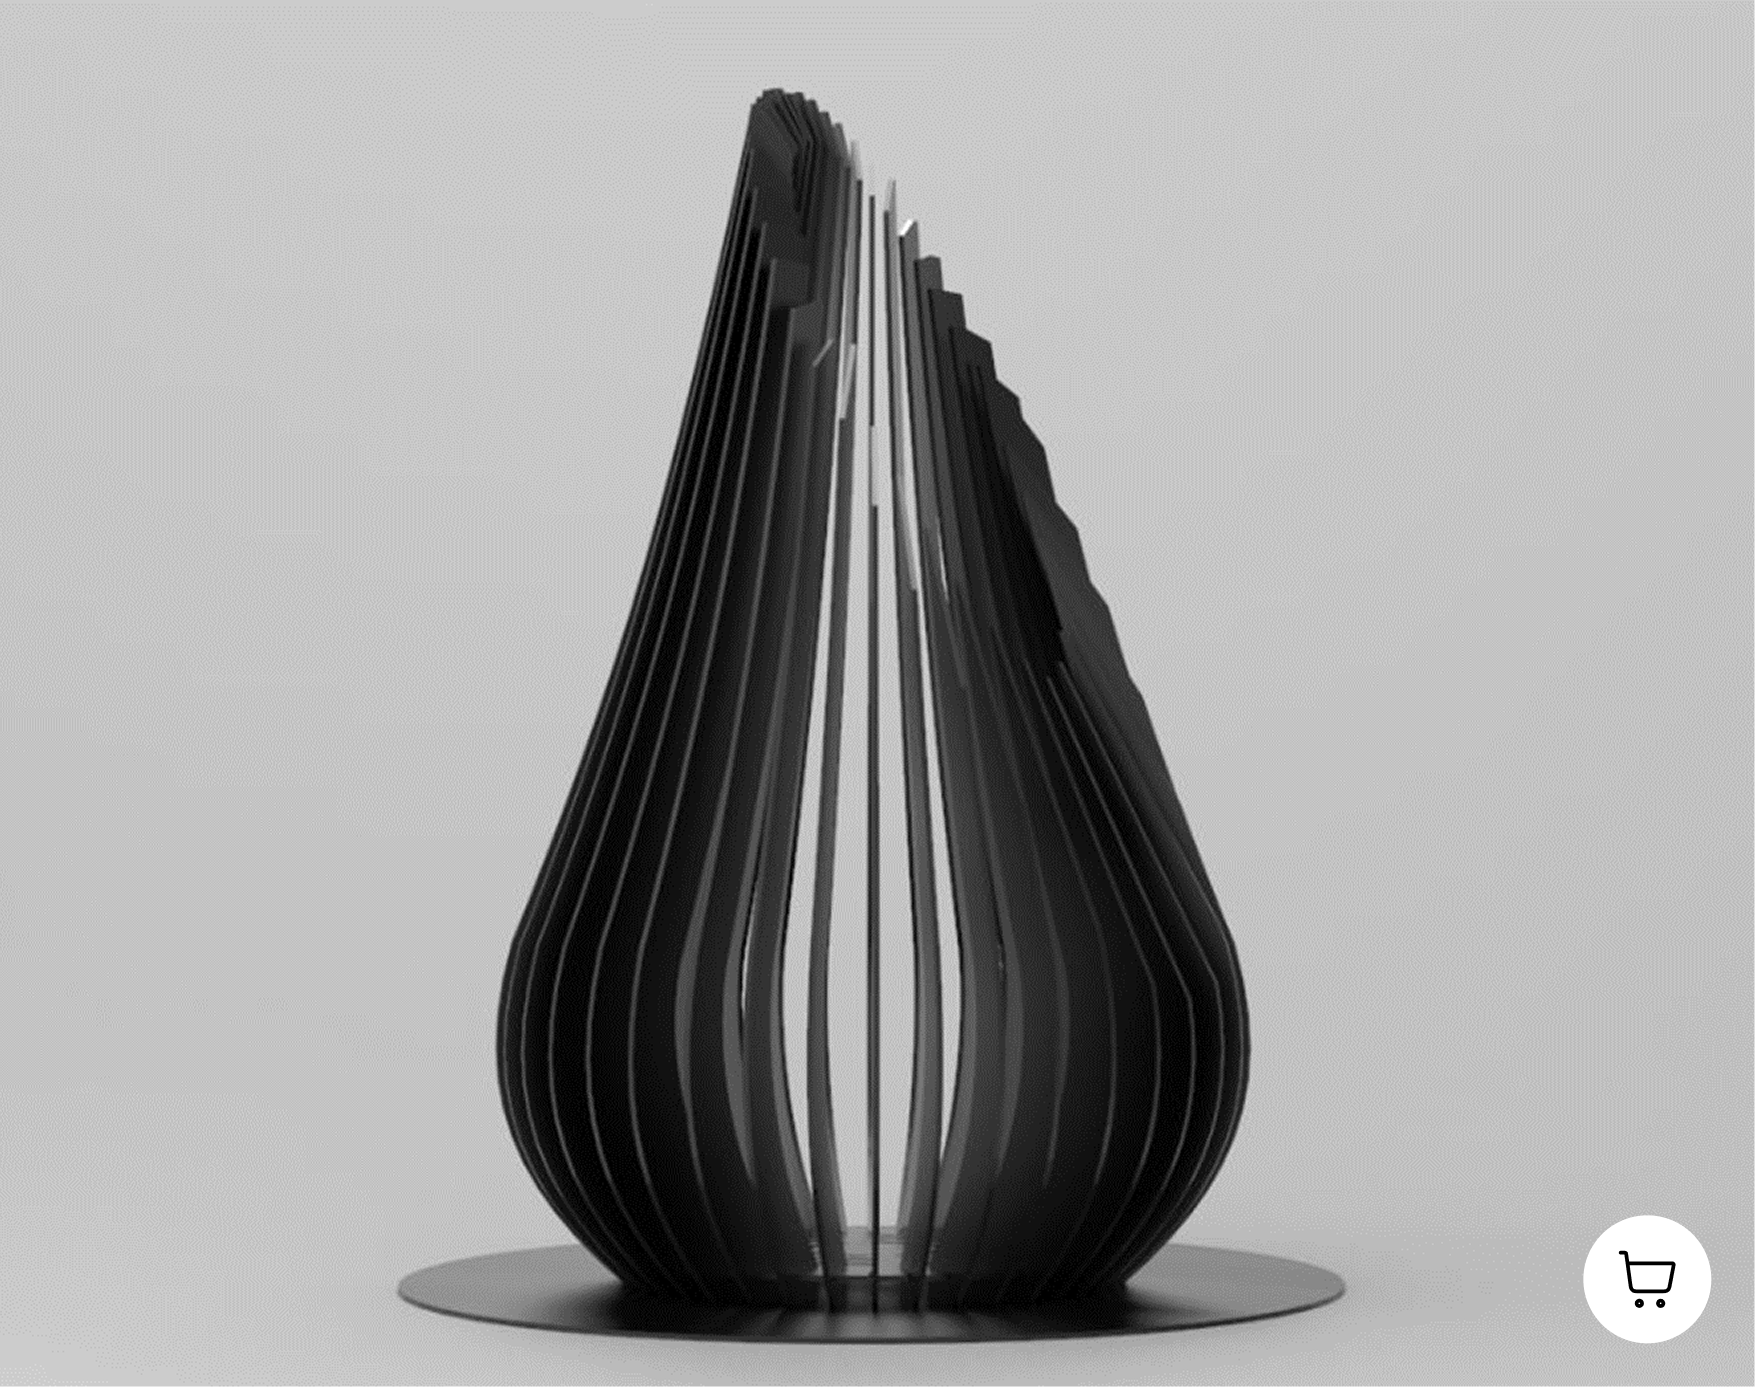
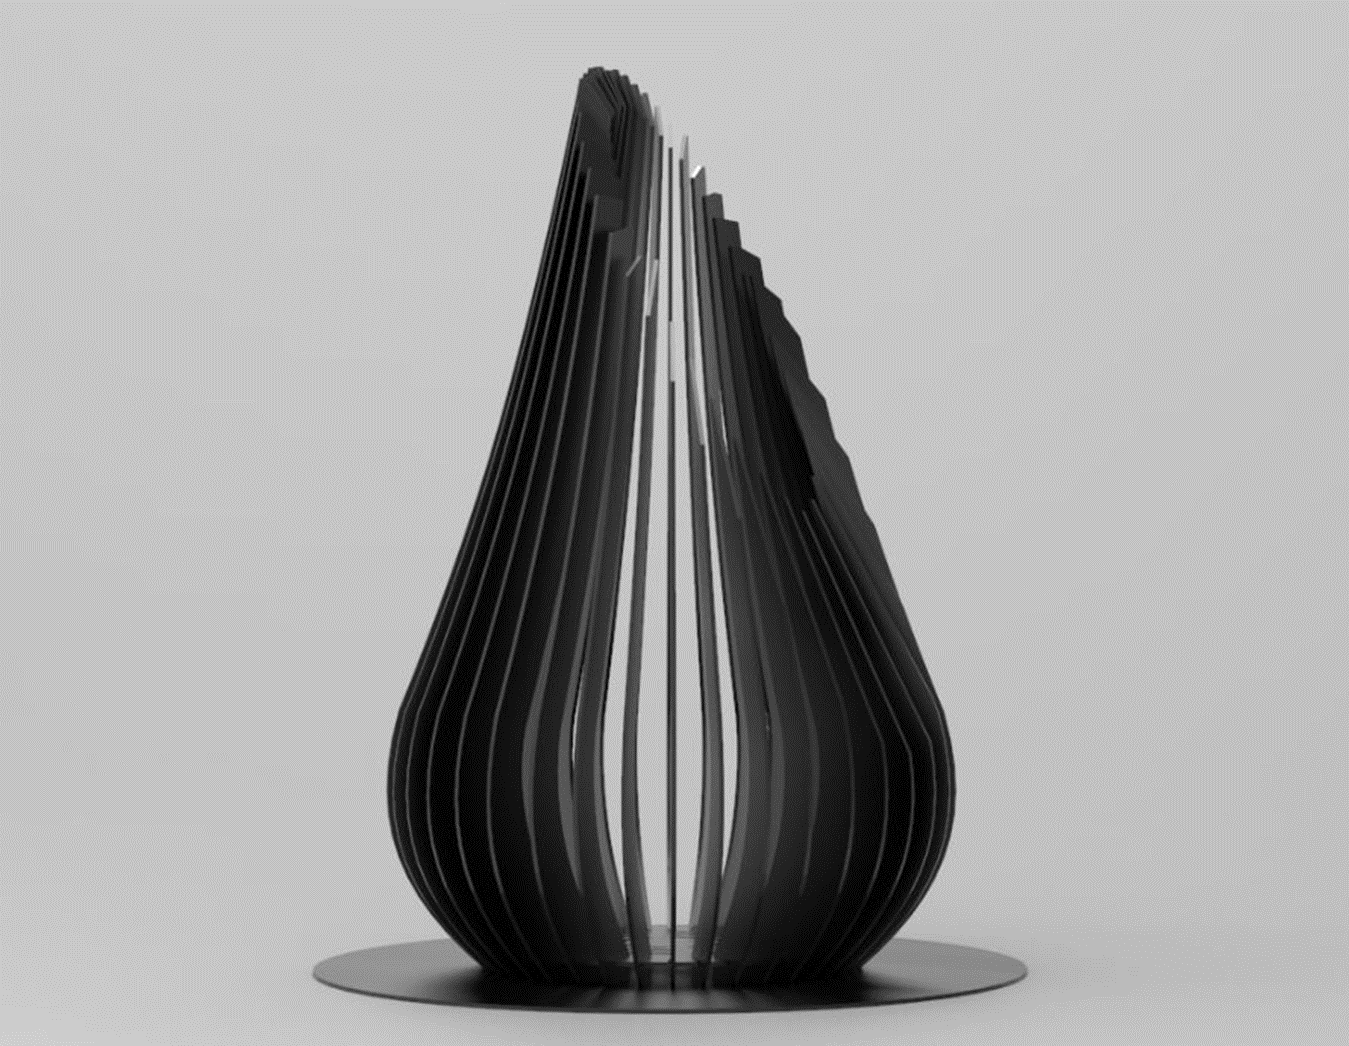
feat: add offer section

diff --git a/css/index.css b/css/index.css
@@ -87,6 +87,10 @@
   position: relative;
 }
 
+.header__burger {
+  display: none;
+}
+
 .header__cart-count {
   position: absolute;
   top: -8px;
@@ -101,6 +105,24 @@
   display: flex;
   align-items: center;
   justify-content: center;
+}
+
+@media (max-width: 960px) {
+  .header__nav {
+    display: none;
+  }
+
+  .header__burger {
+    display: block;
+  }
+
+  .burger-wrapper {
+    display: block;
+  }
+
+  .header {
+    padding: 1rem 2rem;
+  }
 }
 
 .main {
@@ -635,6 +657,16 @@
   width: 100%;
   height: 30.833rem;
   object-fit: cover;
+  position: relative;
+}
+
+.best__list-product-card-cart {
+  height: 4rem;
+  width: 4rem;
+  position: absolute;
+  bottom: 1.354rem;
+  right: 1.354rem;
+  z-index: 30;
 }
 
 .best__list-product-card-content {
@@ -684,4 +716,80 @@
 .best__list-product-card a:hover .best__list-product-card-info h3,
 .best__list-product-card a:hover .best__list-product-card-content p {
   color: #e64410;
+}
+
+.offer {
+  width: 100%;
+  background-image: url("../assets/images/main-page/offer-section/offer-section-background.jpg");
+  background-repeat: no-repeat;
+  background-position: center;
+  background-size: cover;
+  min-height: 58.333rem;
+  display: flex;
+  position: relative;
+}
+
+.offer__container {
+  display: flex;
+  flex-direction: column;
+  gap: 2.667rem;
+  margin: auto;
+  text-align: center;
+  padding-bottom: 5rem;
+}
+
+.offer__container h2,
+h3 {
+  color: white;
+  font-weight: 400;
+}
+
+.offer__container h2 {
+  font-size: 6.667rem;
+  letter-spacing: -0.08em;
+}
+
+.offer__container h3 {
+  font-size: 1.5rem;
+  line-height: 1.4;
+  letter-spacing: -0.05em;
+}
+
+.offer-link {
+  display: flex;
+  align-items: center;
+  width: fit-content;
+  margin: auto;
+  gap: 1.5rem;
+  border-bottom: 1.33px solid white;
+  transition: border-bottom-color 0.3s ease;
+}
+
+.offer-link a {
+  color: white;
+  font-size: 2rem;
+  line-height: 1.1;
+  letter-spacing: -0.05em;
+  text-decoration: none;
+  transition: color 0.3s ease;
+}
+
+.offer-link svg {
+  margin-top: 0.5rem;
+}
+
+.offer-link svg path {
+  transition: stroke 0.3s ease;
+}
+
+.offer-link:hover {
+  border-bottom-color: #e64410;
+}
+
+.offer-link:hover a {
+  color: #e64410;
+}
+
+.offer-link:hover svg path {
+  stroke: #e64410;
 }

diff --git a/index.html b/index.html
@@ -29,6 +29,9 @@
           <div class="header__buttons-wrapper">
             <img class="header__search" src="assets/icons/cart.svg" alt="Корзина" />
           </div>
+          <div class="header__buttons-wrapper burger-wrapper">
+            <img class="header__burger" src="assets/icons/burger.svg" alt="Меню" />
+          </div>
           <!-- <span class="header__cart-count">0</span> -->
         </div>
       </div>
@@ -235,6 +238,30 @@
                 </a>
               </li>
             </ul>
+          </div>
+        </div>
+      </section>
+
+      <!-- Акция -->
+
+      <section class="offer">
+        <div class="offer__container">
+          <h2>- 40% скидка</h2>
+          <h3>
+            Только до 28 февраля! Самая большая сезонная скидка года! <br />
+            Скидка 30% на все товары! Скидка до 50% на выгодные комплекты
+          </h3>
+          <div class="offer-link">
+            <a href="/">Подробнее</a>
+            <svg width="16" height="16" viewBox="0 0 16 16" fill="none" xmlns="http://www.w3.org/2000/svg">
+              <path
+                d="M0.93335 14.2667L14.2667 0.93335M14.2667 0.93335H0.93335M14.2667 0.93335V14.2667"
+                stroke="white"
+                stroke-width="1.86667"
+                stroke-linecap="round"
+                stroke-linejoin="round"
+              />
+            </svg>
           </div>
         </div>
       </section>